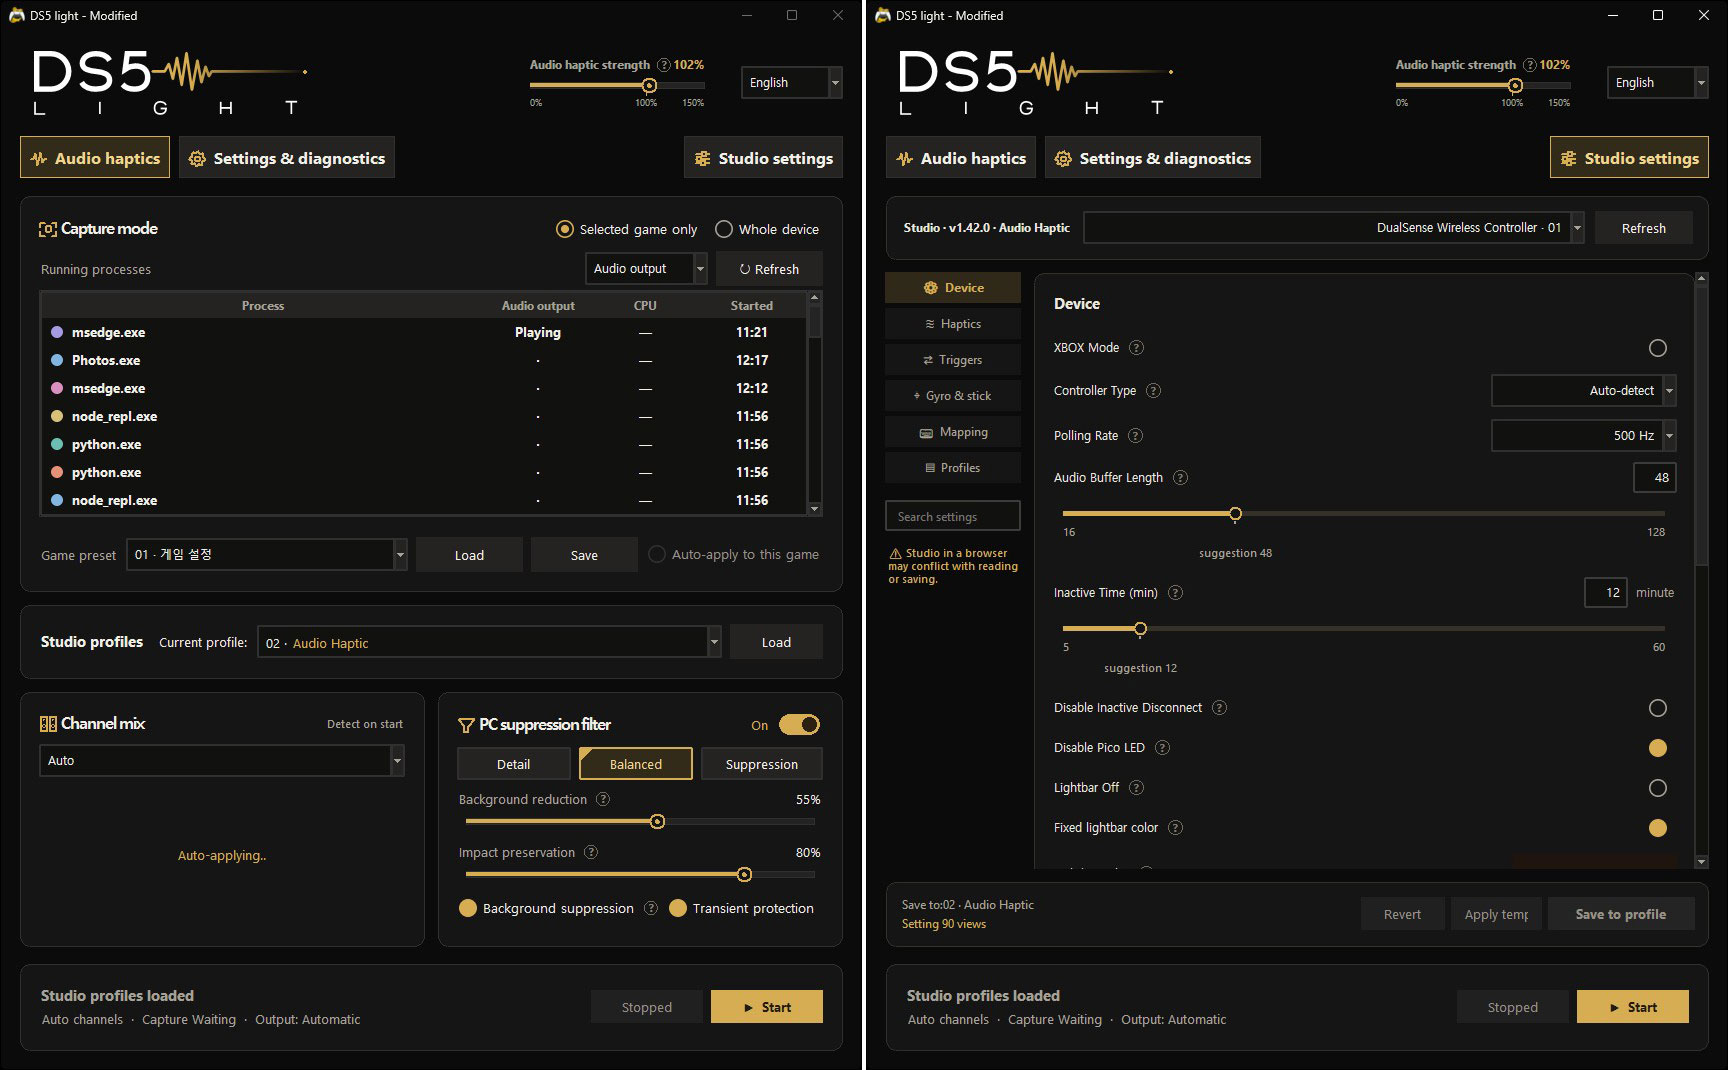
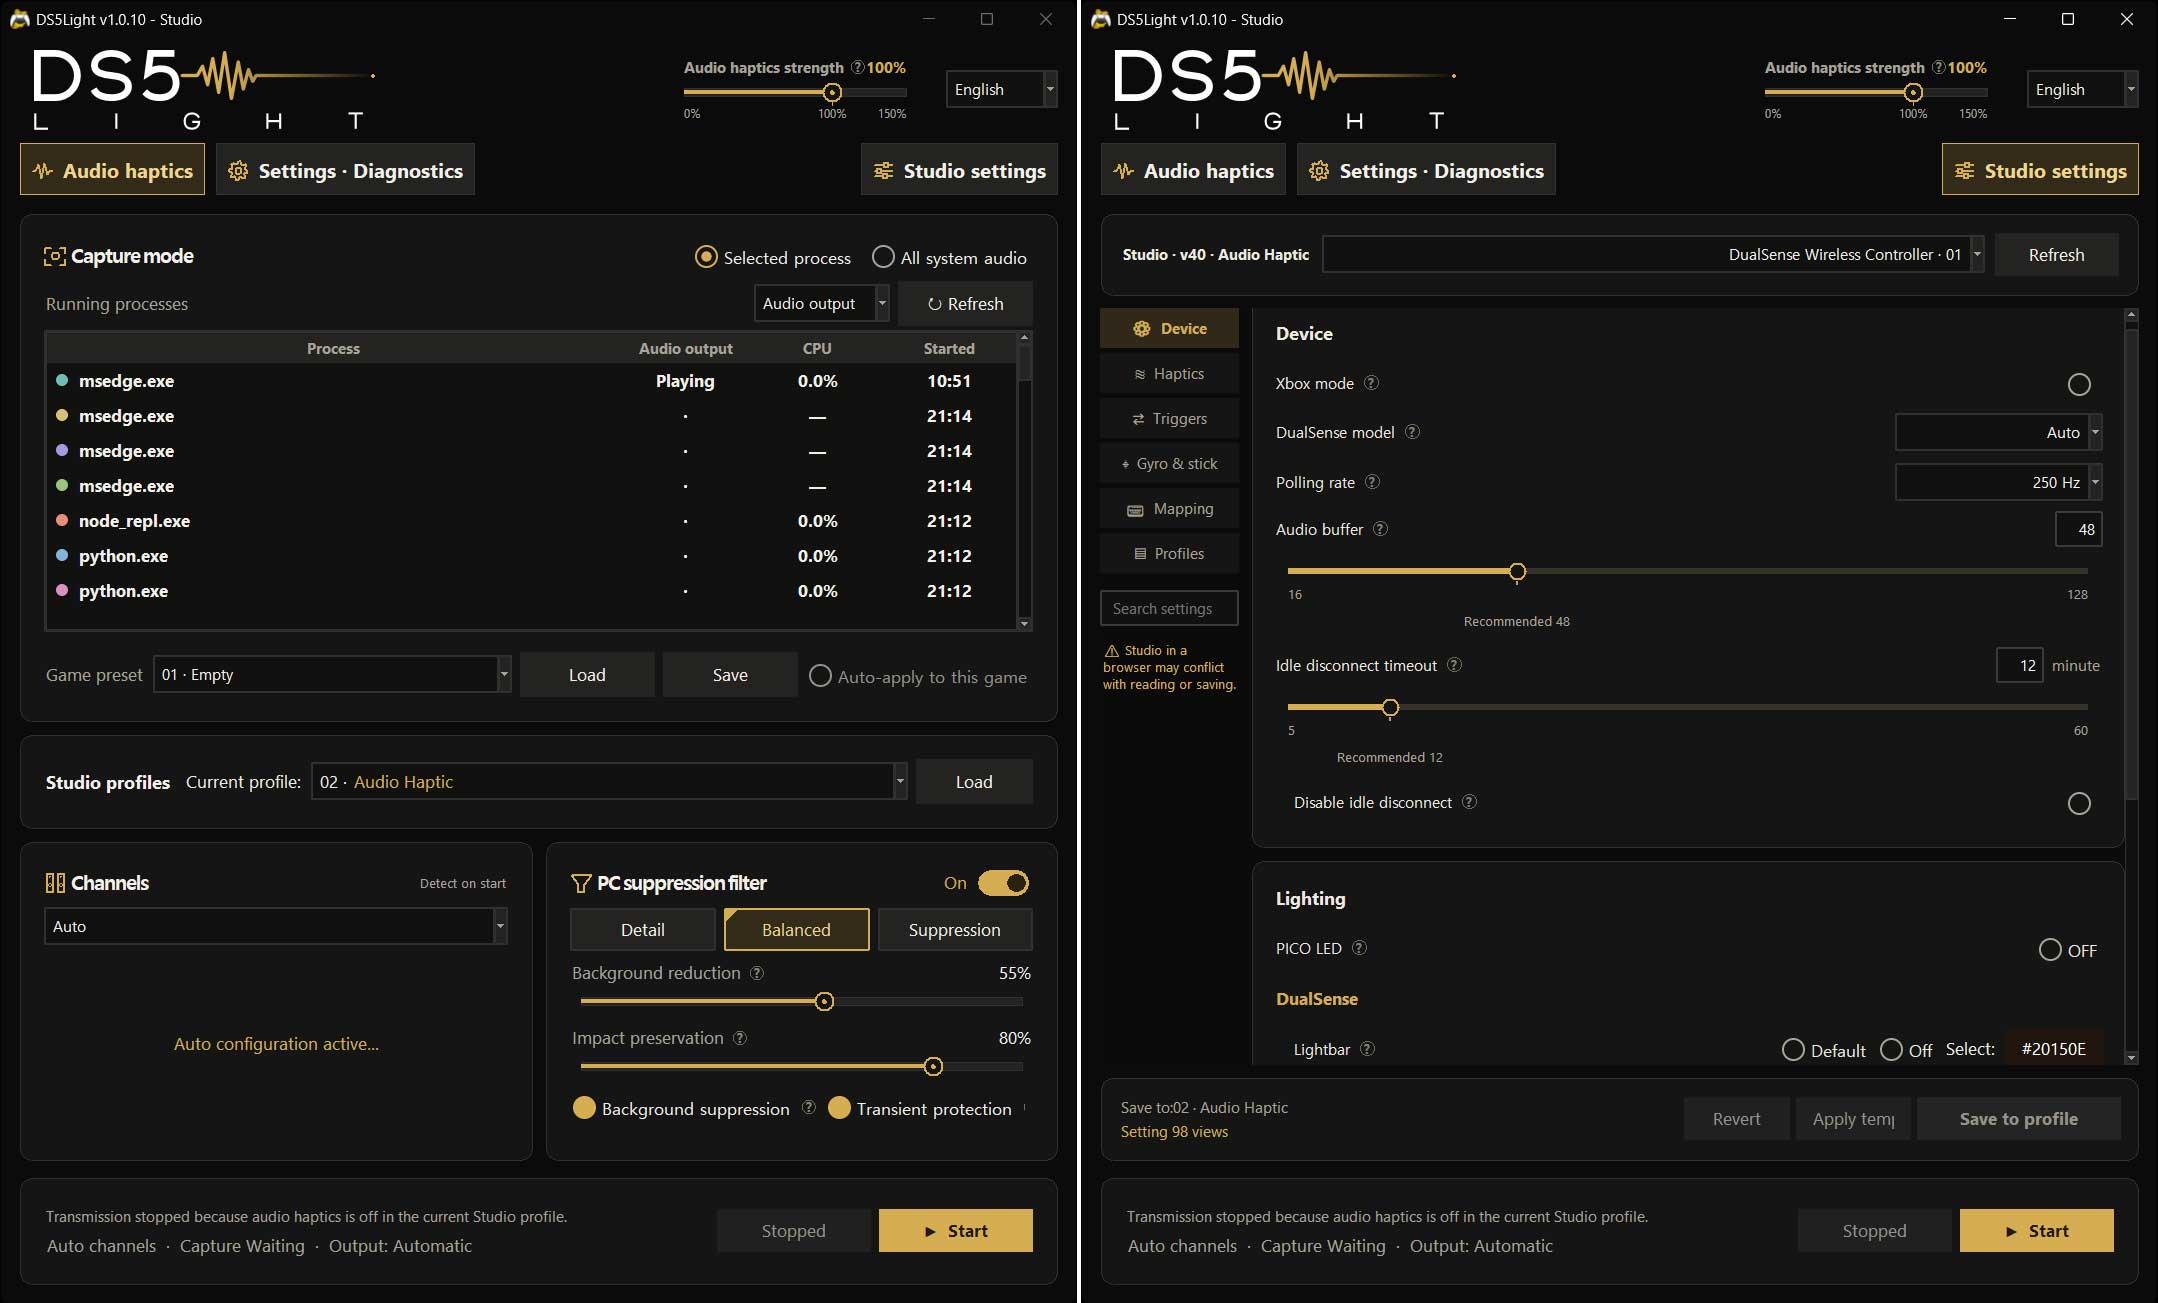
Update release references and DS5Light preview

diff --git a/DS5Light/PRODUCT_KO.md b/DS5Light/PRODUCT_KO.md
@@ -39,9 +39,9 @@
 
 ## 다운로드와 실행
 
-**통합 릴리즈 v1.0.6 · DS5Light v1.0.6 · Studio 펌웨어 v34**
+**통합 릴리즈 v1.0.10 · DS5Light v1.0.10 · Studio 펌웨어 v40**
 
-[Releases](https://github.com/grayexoc/DS5Dongle-Studio-DS5Light/releases)에서 `DS5Light-win-x64-v1.0.6.zip` 전체를 받아 풀고 `DS5Light.exe`를 실행하세요. `_internal` 폴더를 함께 유지해야 하며 Python 설치는 필요하지 않습니다. Pico 2 W용 펌웨어는 별도 파일 `ds5-studio-light_v34.uf2`입니다.
+[Releases](https://github.com/grayexoc/DS5Dongle-Studio-DS5Light/releases)에서 `DS5Light-win-x64-v1.0.10.zip` 전체를 받아 풀고 `DS5Light.exe`를 실행하세요. `_internal` 폴더를 함께 유지해야 하며 Python 설치는 필요하지 않습니다. Pico 2 W용 펌웨어는 별도 파일 `ds5-studio-light_v40.uf2`입니다.
 
 앱의 **Studio설정 → 추천 프리셋 → 저장 후 사용**을 이용하세요. 파일은 `Studio Presert/DS_Native.json`, `Studio Presert/Audio_Haptic_01.json`, `Studio Presert/Audio_Haptic_02.json`입니다. 현재 오디오햅틱 항목만 바꾸고 다른 현재 설정을 유지한 구성을 선택한 슬롯에 저장합니다. 슬롯 덮어쓰기 전 대상을 확인하세요.
 

diff --git a/DS5Light/README.md b/DS5Light/README.md
@@ -39,9 +39,9 @@ This is CPU-based signal processing, with no large AI model or GPU inference in 
 
 ## Download and start
 
-**Combined release v1.0.6 · DS5Light v1.0.6 · Studio firmware v34**
+**Combined release v1.0.10 · DS5Light v1.0.10 · Studio firmware v40**
 
-Download `DS5Light-win-x64-v1.0.6.zip` from [Releases](https://github.com/grayexoc/DS5Dongle-Studio-DS5Light/releases). Extract the whole package and run `DS5Light.exe` with `_internal` beside it. Python is not required. The separate Pico 2 W firmware attachment is `ds5-studio-light_v34.uf2`.
+Download `DS5Light-win-x64-v1.0.10.zip` from [Releases](https://github.com/grayexoc/DS5Dongle-Studio-DS5Light/releases). Extract the whole package and run `DS5Light.exe` with `_internal` beside it. Python is not required. The separate Pico 2 W firmware attachment is `ds5-studio-light_v40.uf2`.
 
 Use the app's **Studio settings → Recommended presets → Save and use** workflow. The files are `Studio Presert/DS_Native.json`, `Studio Presert/Audio_Haptic_01.json` and `Studio Presert/Audio_Haptic_02.json`. Recommended presets change current audio-haptics fields, preserve other current settings, and save that resulting configuration to the selected slot. Check before overwriting a slot.
 
